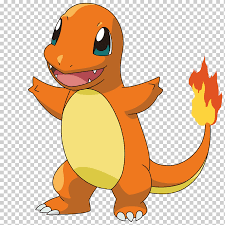
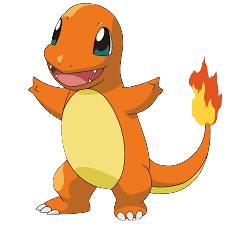
termine con el trabajo

diff --git a/Ejercicios HTML/6).html b/Ejercicios HTML/6).html
@@ -6,53 +6,62 @@
     <link rel="stylesheet" href="mains.css">
     <title>Document</title>
 </head>
-<body>
+<body class = "sinFondo">
     <div class="AlinearEj6 ">
         <main class="Cuadrilla">           
-            <div class="colorCuadro">
-                <p>#143</p>
-                <img class="fotoDinamica" src="squartle.png" alt="foto">
-                <p class="centrarTexto">Squartle</p>
+            <div class="colorCuadroAgua">
+                <p>#083</p>
+                <img class="fotoDinamica" src="squartle sin fondo.png" alt="foto">
+                <p class="centrarTexto colorLetra">Tipo: Agua</p>
+                <p class="centrarTexto colorCuadroAgua colorLetra">Squartle</p>
             </div> 
-            <div>
+            <div class="colorCuadroPlanta">
                 <p>#052</p>
-                <img class="fotoDinamica" src="bulbasor.png" alt="foto">
-                <p class="centrarTexto">Bulbasor</p>
+                <img class="fotoDinamica" src="bulbasor sin fondo.png" alt="foto">
+                <p class="centrarTexto colorLetra">Tipo: Planta</p>
+                <p class="centrarTexto colorCuadroPlanta colorLetra">Bulbasor</p>
             </div>  
-            <div>
+            <div class="colorCuadroNormal">
                 <p>#154</p>
-                <img class="fotoDinamica" src="perro.png" alt="foto">
-                <p class="centrarTexto">Eve</p>
+                <img class="fotoDinamica" src="perro1.png" alt="foto">
+                <p class="centrarTexto colorLetra">Tipo: Normal</p>
+                <p class="centrarTexto colorCuadroNormal colorLetra">Eve</p>
             </div>
-            <div >
-                 <p>#143</p>
-                <img class="fotoDinamica" src="monooo.png" alt="foto">
-                <p class="centrarTexto">Primeape</p>
+            <div class="colorCuadroLucha">
+                 <p>#203</p>
+                <img class="fotoDinamica" src="primate.png" alt="foto">
+                <p class="centrarTexto colorLetra">Tipo: Lucha</p>
+                <p class="centrarTexto colorCuadroLucha colorLetra">Primeape</p>
             </div> 
-            <div >
-                <p>#052</p>
+            <div class="colorCuadroNormal">
+                <p>#002</p>
                 <img class="fotoDinamica" src="gordo2.png" alt="foto">
-                <p class="centrarTexto">Chansey</p>
+                <p class="centrarTexto colorLetra">Tipo: Normal</p>
+                <p class="centrarTexto colorCuadroNormal colorLetra">Chansey</p>
             </div>  
-            <div>
+            <div class="colorCuadroAgua">
                 <p>#132</p>
                 <img class="fotoDinamica" src="gordo3.png" alt="foto">
-                <p class="centrarTexto">Tamazarashi</p>
+                <p class="centrarTexto colorLetra">Tipo: Agua</p>
+                <p class="centrarTexto colorCuadroAgua colorLetra">Tamazarashi</p>
             </div>
-            <div>
+            <div class="colorCuadroElectrico">
                 <p>#143</p>
-                <img class="fotoDinamica" src="raichu.jpg" alt="foto">
-                <p class="centrarTexto">Raichu</p>
+                <img class="fotoDinamica" src="raichu sin fondo.png" alt="foto">
+                <p class="centrarTexto colorLetra">Tipo: Electrico</p>
+                <p class="centrarTexto colorCuadroElectrico colorLetra">Raichu</p>
             </div> 
-            <div >
-                <p>#052</p>
-                <img class="fotoDinamica" src="snorlax.png" alt="foto">
-                <p class="centrarTexto">Snorlax</p>
+            <div class="colorCuadroNormal">
+                <p>#092</p>
+                <img class="fotoDinamica" src="snorlax si fondo.png" alt="foto">
+                <p class="centrarTexto colorLetra">Tipo: Normal</p>
+                <p class="centrarTexto colorCuadroNormal colorLetra">Snorlax</p>
             </div>  
-            <div  >
-                <p>#132</p>
+            <div  class="colorCuadroFuego">
+                <p>#102</p>
                 <img class="fotoDinamica" src="charmander sin fondo.png" alt="foto">
-                <p class="centrarTexto">Charmander</p>
+                <p class="centrarTexto colorLetra">Tipo: Fuego</p>
+                <p class="centrarTexto colorCuadroFuego colorLetra">Charmander</p>
             </div>
        </main>
     </div>

diff --git a/Ejercicios HTML/mains.css b/Ejercicios HTML/mains.css
@@ -49,6 +49,45 @@
     text-align: center;
 }
 
-.colorCuadro{
-    background-color: blue;
+.colorCuadroAgua{
+    background-color: rgb(20, 102, 196);
+    border-radius: 10px;
+    
 }
+
+.colorCuadroPlanta{
+    background-color: rgb(11, 153, 70);
+    border-radius: 10px;
+    
+}
+.colorCuadroNormal{
+    background-color: rgb(97, 107, 161);
+    border-radius: 10px;
+    
+}
+.colorCuadroLucha{
+    background-color: rgb(177, 45, 45);
+    border-radius: 10px;
+    
+}
+.colorCuadroFuego{
+    background-color: rgb(211, 123, 41);
+    border-radius: 10px;
+    
+}
+.colorCuadroElectrico{
+    background-color: rgb(180, 136, 40);
+    border-radius: 10px;
+    
+}
+.colorLetra{
+    font-style: italic ;
+    color: white;
+}
+
+.sinFondo{
+    background-color:rgb(104, 149, 155);
+    background-size: cover;
+    
+}
+

diff --git a/javascrip/bucle.js b/javascrip/bucle.js
@@ -1,0 +1,9 @@
+const arrays = (1,2,3)
+let contador = 0;
+while (contador <2){
+    console.log("hola")
+    contador++;
+}
+for(let i = 0;i< arrays, length;i++){
+    console.log("arrays",arrays[1]);
+}

diff --git a/javascrip/variables.js b/javascrip/variables.js
@@ -1,0 +1,6 @@
+var name = "hola"
+var number = 20 
+var boolean = true 
+function funcion() {
+    let name = "hola"
+}
